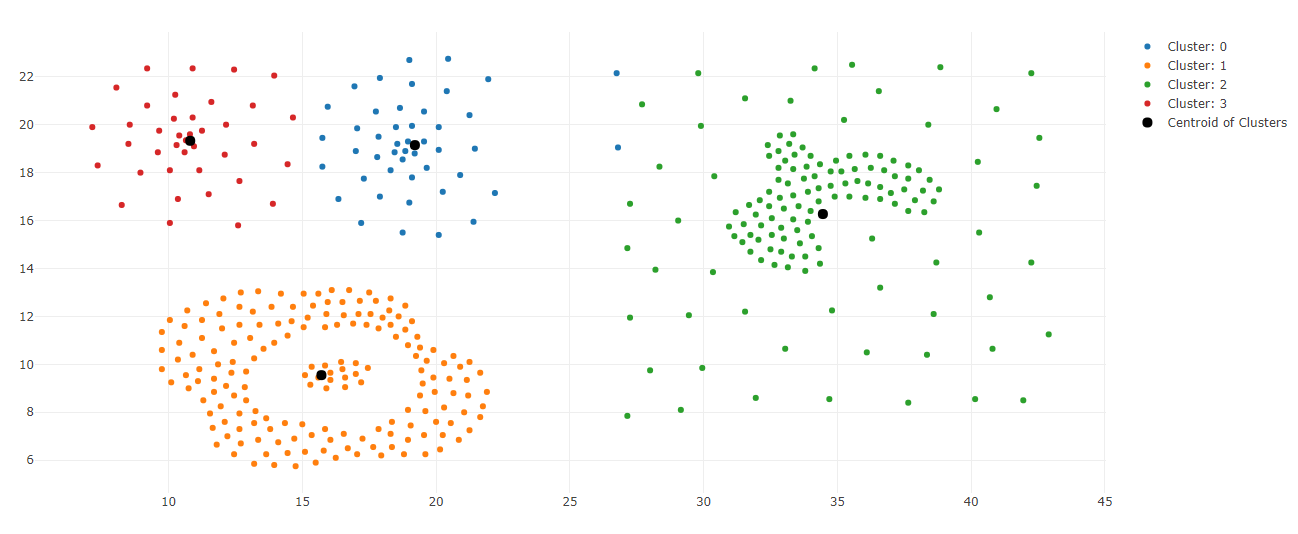
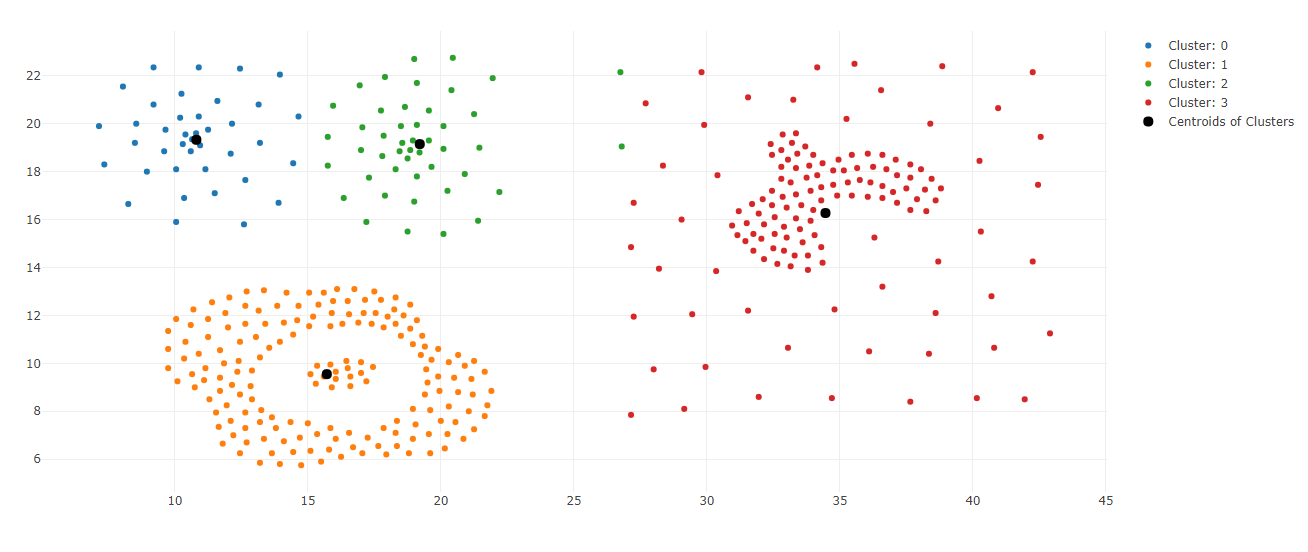
changes in legend

diff --git a/src/k_means_clustering.py b/src/k_means_clustering.py
@@ -53,7 +53,7 @@ def k_means_clustering(path, k):
                 size=10,
                 color='#000000',
             ),
-            name='Centroid of Clusters'
+            name='Centroids of Clusters'
         )
     )
 
@@ -61,4 +61,4 @@ def k_means_clustering(path, k):
 
 
 if __name__ == '__main__':
-    k_means_clustering(path='../datasets/k_means_clustering_test_2.csv', k=4)
+    k_means_clustering(path='../datasets/k_means_clustering_test_1.csv', k=7)
